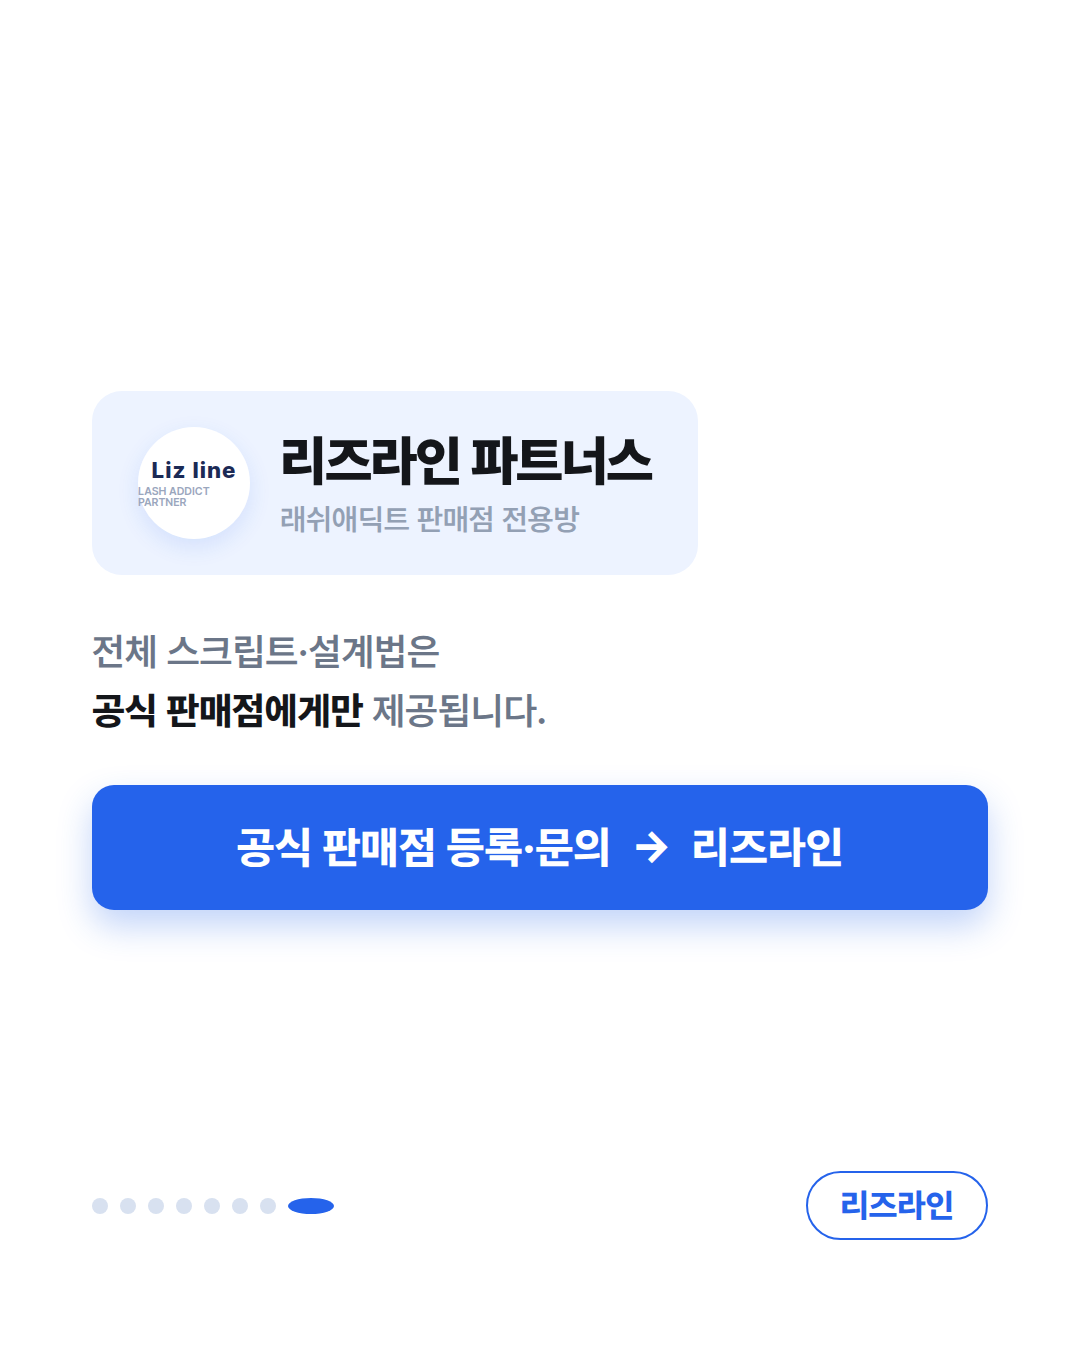
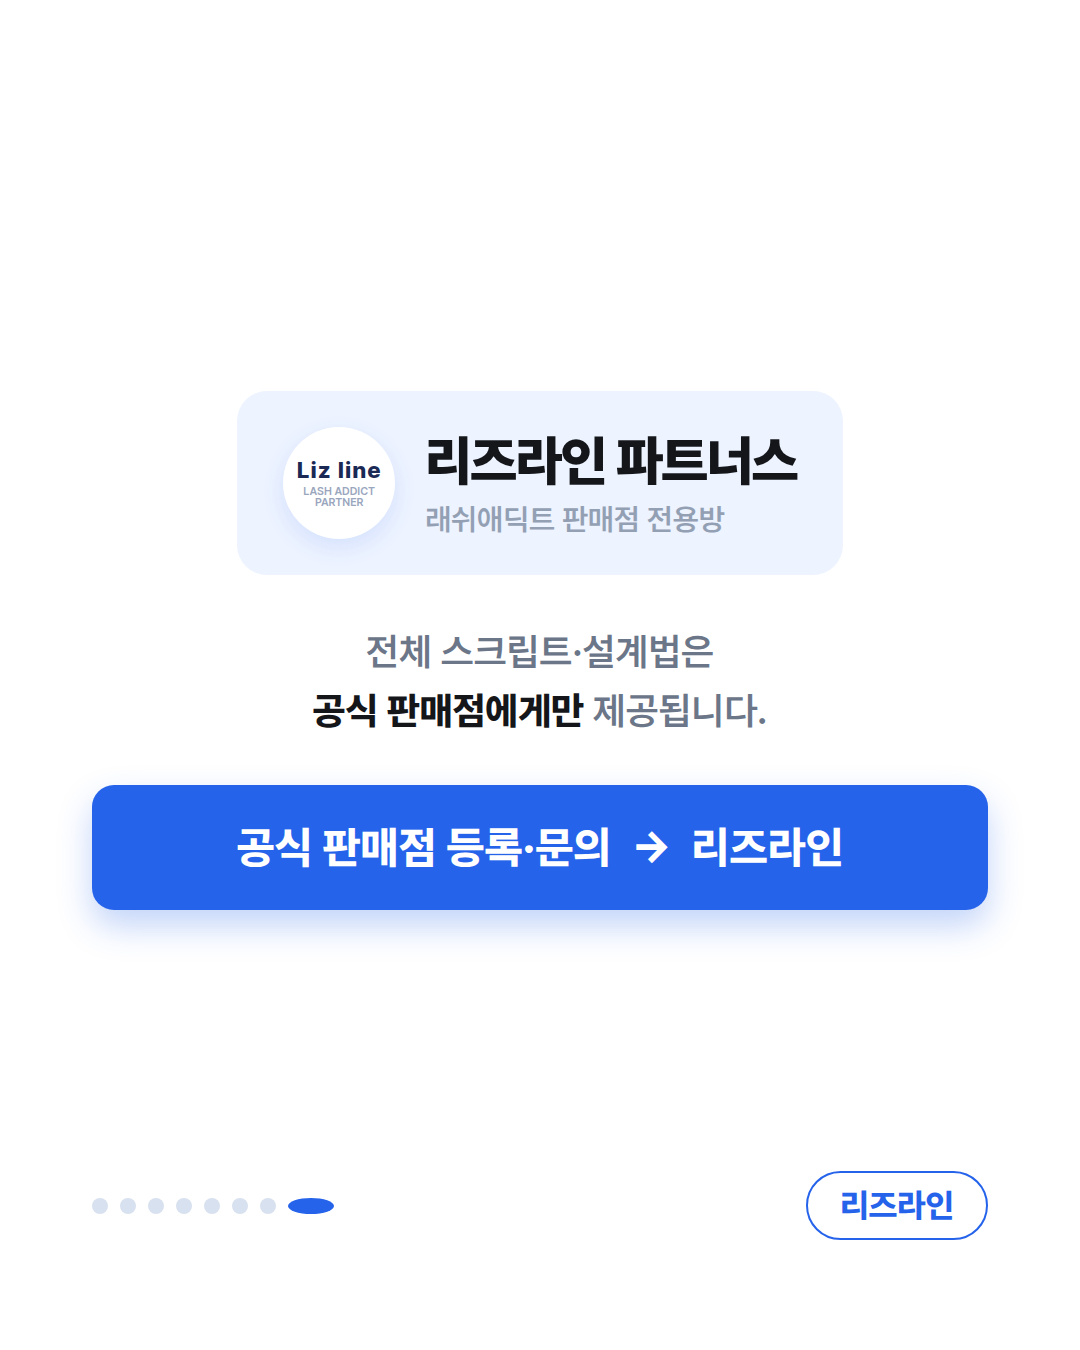
design: CTA(리즈라인 파트너스) 카드만 가운데 정렬로 복귀
Claude-Session: https://claude.ai/code/session_01QfY3xzF5GGpC9m8MVyzigz

Changed region(s): [[0.0917, 0.4667, 0.7028, 0.56], [0.2444, 0.3111, 0.7333, 0.4044], [0.1222, 0.3422, 0.2139, 0.4356]]

diff --git a/lizline-cardnews/generate.py b/lizline-cardnews/generate.py
@@ -62,7 +62,7 @@ html,body{width:1080px;height:1350px}
 .lockpill{position:absolute;left:50%;top:50%;transform:translate(-50%,-50%);background:#2563EB;color:#fff;
  font-weight:800;font-size:38px;padding:22px 40px;border-radius:999px;white-space:nowrap;box-shadow:0 12px 30px rgba(37,99,235,.35)}
 .ctabtn{background:#2563EB;color:#fff;font-weight:800;font-size:44px;padding:36px 20px;border-radius:22px;text-align:center;margin-top:44px;box-shadow:0 16px 34px rgba(37,99,235,.28)}
-.partner{background:#EDF3FF;border-radius:30px;padding:36px 46px;display:inline-flex;align-items:center;gap:30px;align-self:flex-start}
+.partner{background:#EDF3FF;border-radius:30px;padding:36px 46px;display:inline-flex;align-items:center;gap:30px;align-self:center}
 .plogo{flex:none;width:112px;height:112px;border-radius:50%;background:#fff;display:flex;flex-direction:column;align-items:center;justify-content:center;font-weight:800;font-size:23px;line-height:1.0;color:#1b2a55;letter-spacing:1px;box-shadow:0 8px 22px rgba(37,99,235,.12)}
 .plogo small{font-weight:600;font-size:11px;color:#9aa6bd;letter-spacing:0;margin-top:4px}
 .pname{font-weight:900;font-size:54px;letter-spacing:-1.5px}
@@ -154,12 +154,12 @@ def _closer(c, dot):
             f'<div class="punch">{c["punch"]}</div></div>{_bottom(dot)}')
 
 def _cta(c, dot):
-    return (f'<div class="mid">'
+    return (f'<div class="mid" style="text-align:center">'
             f'<div class="partner">'
             f'<div class="plogo">Liz line<small>LASH ADDICT PARTNER</small></div>'
             f'<div style="text-align:left"><div class="pname">리즈라인 파트너스</div>'
             f'<div class="psub">래쉬애딕트 판매점 전용방</div></div></div>'
-            f'<div class="note" style="margin-top:48px">{br(c["note"])}</div>'
+            f'<div class="note" style="text-align:center;margin-top:48px">{br(c["note"])}</div>'
             f'<div class="ctabtn">{c["button"]}</div></div>{_bottom(dot)}')
 
 RENDERERS = {"cover":_cover,"statement":_statement,"point":_point,"mentte":_mentte,